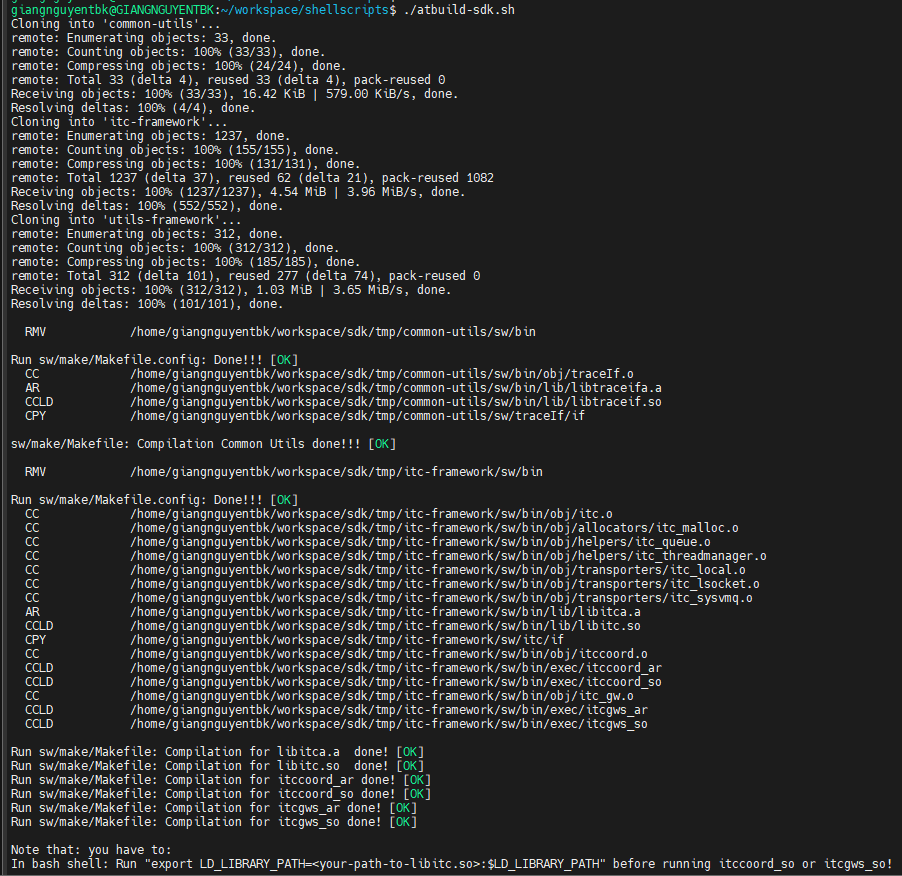
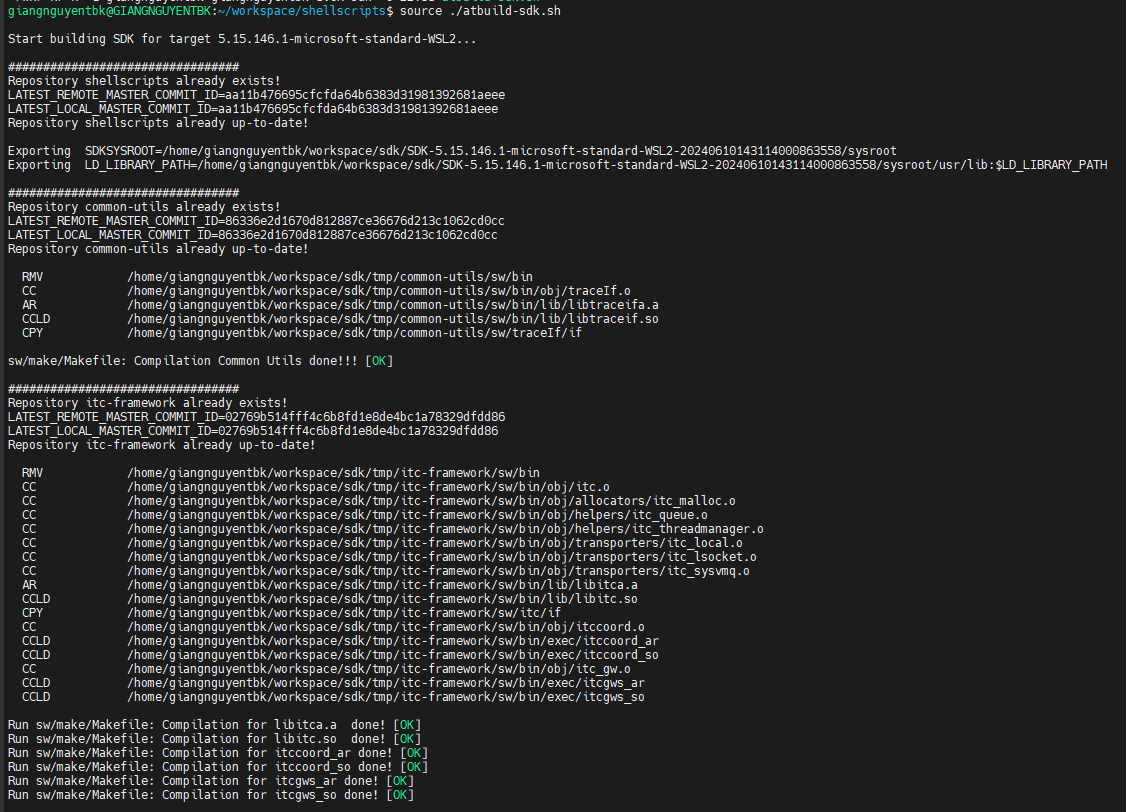
NOREF: Update README for atbuild-sdk.sh
Team: Caliburn
giangnguyentbk

Changed region(s): [[0.0, 0.0, 0.9933, 1.0]]

diff --git a/README.md b/README.md
@@ -33,7 +33,14 @@ This is a script that automatically does:
 	+ Move libraries to a common sdk folder.
 ```
 
+```bash
+# Usage
+$ source ./atbuild-sdk.sh
+```
+
 ![](./assets/atbuild-sdk.png?raw=true)
+
+![](./assets/atbuild-sdk-1.png?raw=true)
 
 ![](./assets/atbuild-sdk-tree.png?raw=true)
 
